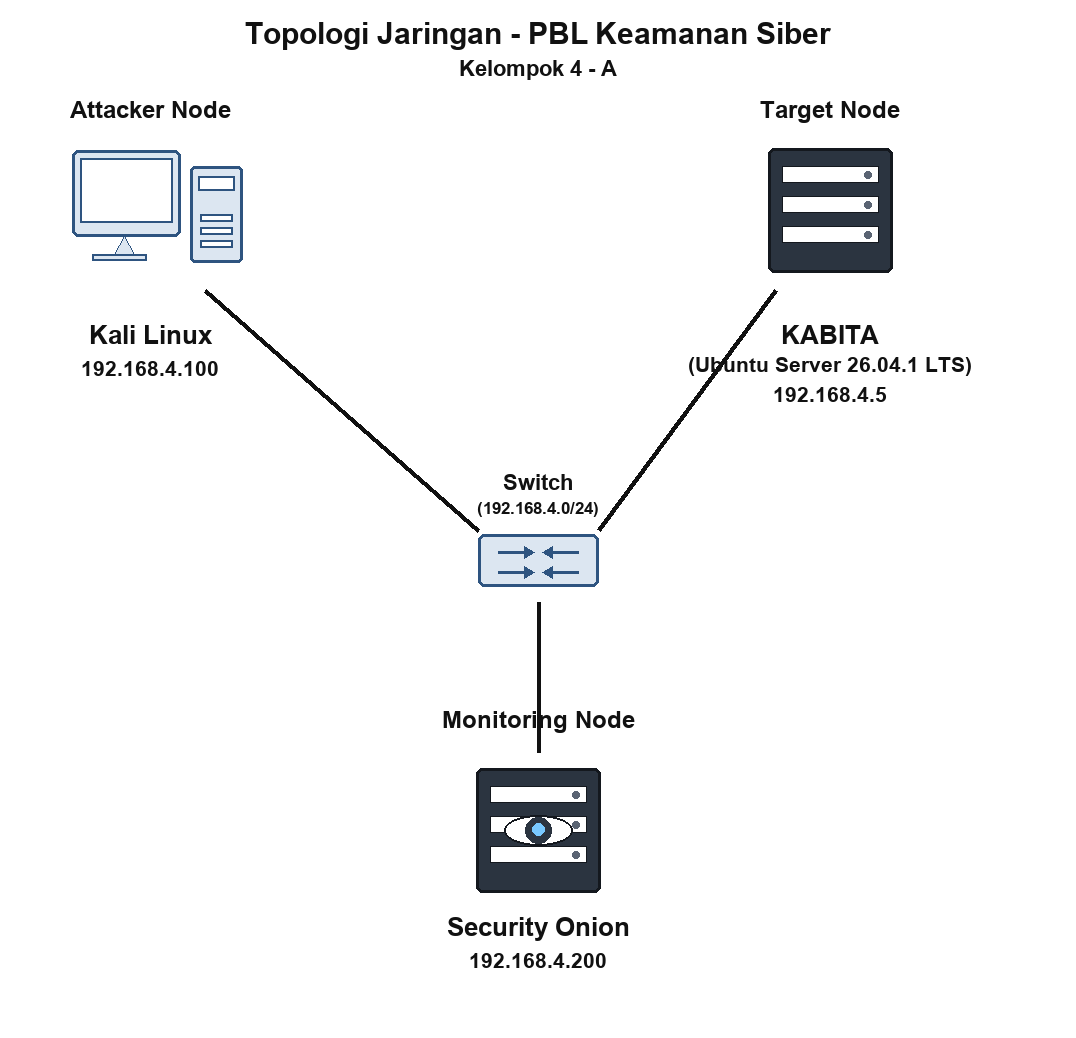
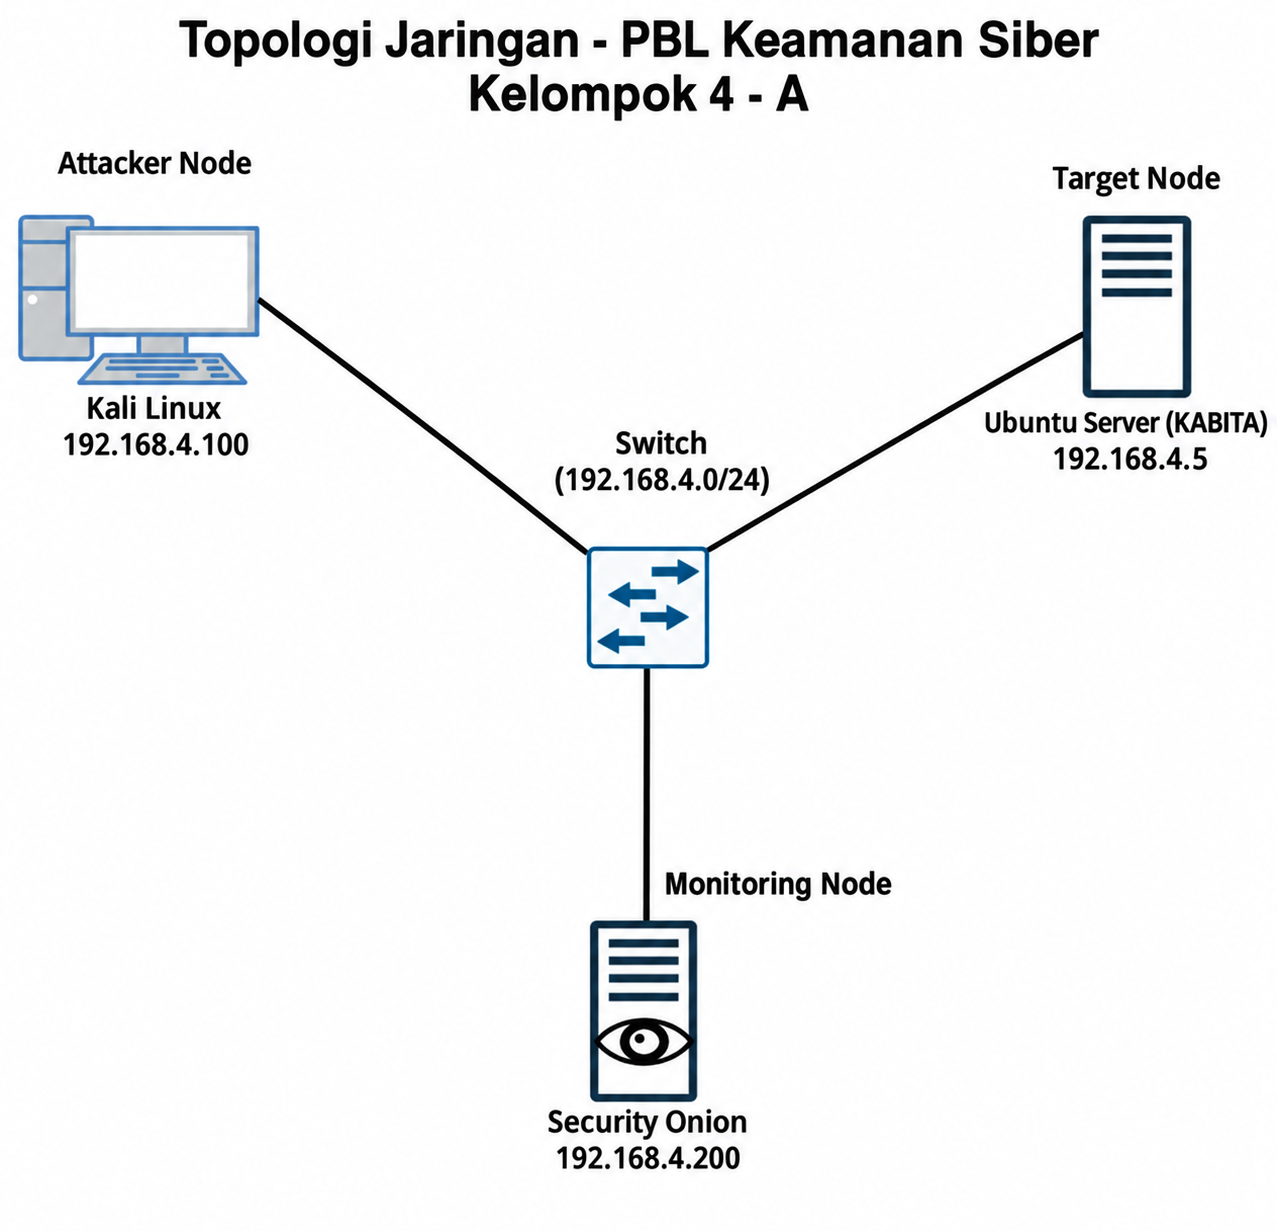
Update documentation and evidence files for KABITA project
- Revised IP plan documentation to reflect changes in monitoring node configuration.
- Removed outdated topology image and updated current topology image.
- Added evidence files for SSH login attempts, fail2ban configurations, and service statuses.
- Created hardening checklist and tech stack declaration for the KABITA project.
- Documented attack plan scenarios for phase 2 of the project.

diff --git a/docs/design/ip_plan.md b/docs/design/ip_plan.md
@@ -7,57 +7,3 @@ Subnet lab: **192.168.4.0/24** (Internal Network `pbl-kel4`, tanpa DHCP).
 | Attacker | `PBL-K4-02-Attacker-Kali` | 192.168.4.100/24 | — | NAT (dhcp) |
 | Target | `PBL-K4-01-Target-Ubuntu` | 192.168.4.5/24 | — | NAT 10.0.3.15 + forward 2222→22 |
 | Monitoring | `PBL-K4-03-Monitoring-Onion` | 192.168.4.200/24 | — | Host-only 192.168.56.1 |
-
-## Port yang dipakai Target Node
-
-| Port | Layanan | Akses |
-|---|---|---|
-| 22/tcp | SSH (admin) | semua (lab + NAT) |
-| 80/tcp | dashboard & API KABITA (Nuxt/Nitro) | 192.168.4.0/24 |
-| 5432/tcp | PostgreSQL | hanya `127.0.0.1` |
-
-## Konfigurasi per node
-
-**Kali** — IP lab ditambahkan lewat NetworkManager, bukan `ip addr add` (kalau lewat `ip addr`,
-ARP tidak dijawab dan host lain gagal ping):
-
-```bash
-sudo nmcli con add type ethernet ifname eth0 con-name pbl-lab ip4 192.168.4.100/24
-sudo nmcli con up pbl-lab
-```
-
-**Kali (ulangi setelah reboot)** — profil `pbl-lab` dibuat sekali dan tersimpan, tetapi harus
-diaktifkan kalau IP hilang:
-
-```bash
-sudo nmcli con up pbl-lab          # profil sudah ada
-# kalau belum ada:
-sudo nmcli con add type ethernet ifname eth0 con-name pbl-lab ipv4.method manual \
-  ipv4.addresses 192.168.4.100/24
-```
-
-**Target** — netplan statis, permanen:
-
-```yaml
-# /etc/netplan/60-pbl-lab.yaml
-network:
-  version: 2
-  ethernets:
-    enp0s3:
-      dhcp4: false
-      addresses: [192.168.4.5/24]
-      optional: true
-```
-
-**Onion** — sensor pasif (`promisc on arp off`); agar bisa di-ping, ARP diaktifkan:
-
-```bash
-sudo ip link set eth0 promisc on arp on
-sudo ip addr add 192.168.4.200/24 dev eth0
-```
-
-## Catatan revisi Minggu 9
-
-Target Node semula direncanakan Metasploitable2, diganti **Ubuntu Server 26.04.1 LTS** agar
-replika menyerupai backend IoT nyata (Nuxt + PostgreSQL) dan kontrol hardening bisa dibuktikan.
-Subnet dan IP **tidak berubah** dari Minggu 4.

diff --git a/docs/blueteam/evidence/hardening_checklist.md b/docs/blueteam/evidence/hardening_checklist.md
@@ -1,0 +1,15 @@
+# Hardening Checklist — Target Node (KABITA Replica)
+Kelompok 4 — diperbarui 2026-10-23
+
+| # | Kategori | Kontrol | Status | Bukti |
+|---|---|---|---|---|
+| A.1 | Access & Authentication | SSH key-based auth, `PermitRootLogin no`, `PasswordAuthentication no` | Selesai | `evidence/a1-sshd_config-after.txt`, `evidence/a1-login-password-rejected.txt` |
+| A.2 | Access & Authentication | Port SSH custom (2222) + fail2ban rate-limit | Selesai | `evidence/a2-fail2ban-status.txt` |
+| B.1 | Service & Attack Surface | UFW whitelist port 2222/80/443/1883, default deny — 1883 untuk MQTT broker, sengaja dibuka ke LAN tapi wajib auth (bukan anonymous) | Selesai | `evidence/b1-ufw-status.txt` (perbarui — sekarang termasuk 1883) |
+| B.2 | Service & Attack Surface | Nonaktifkan service tak terpakai (ModemManager) + unattended-upgrades aktif | Selesai | `evidence/b2-services-after.txt`, `evidence/b2-unattended-upgrades.txt` |
+| B.3 | Service & Attack Surface | PostgreSQL `listen_addresses=localhost`, akun default bersih | Selesai | `evidence/b3-ss-tlnp.txt`, `evidence/b3-pg-roles.txt` |
+| C.1 | Data & Application | Kredensial DB via `.env` (mode 600), tidak hardcode | Selesai | `evidence/c1-env-permissions.txt` |
+| C.2 | Data & Application | Validasi input (`tag_rfid`, `berat_kg`, `:id`) | Selesai | `evidence/c2-sqli-probe-400.txt` |
+| C.3 | Data & Application | Least-privilege DB user + logging query mencurigakan | Selesai | `evidence/b3-pg-roles.txt`, `evidence/c3-log_statement.txt`, `evidence/c3-log-sample.txt` |
+
+> **Catatan:** MQTT (1883/tcp) terekspos ke jaringan lab secara sengaja — alat/simulator perlu publish dari luar. Beda dari PostgreSQL (5432, localhost) dan API (8080, loopback) yang tertutup total. Mitigasinya: `allow_anonymous false` + `password_file`, bukan isolasi jaringan.

diff --git a/docs/redteam/attack_plan.md b/docs/redteam/attack_plan.md
@@ -1,0 +1,9 @@
+# Attack Plan Fase 2 — KABITA (Kelompok 4)
+
+| Kategori | Skenario | Tools | Target di Replika |
+|---|---|---|---|
+| Reconnaissance | Port/service scan + OS fingerprinting | `nmap -sV -O -p- 192.168.4.5` | Seluruh port terbuka Target Node |
+| Exploitation / Akses | Brute-force login SSH (port 2222) | Hydra + wordlist | Layanan SSH Target Node |
+| Web/API/Protokol IoT | Uji SQL injection pada parameter `id` di `GET /api/v1/kambing/:id/riwayat` | sqlmap / uji manual | Endpoint API Golang |
+| Web/API/Protokol IoT | Publish MQTT tanpa kredensial ke broker (harus ditolak) | `mosquitto_pub` (tanpa -u/-P) | Mosquitto broker :1883 |
+| Web/API/Protokol IoT | Publish MQTT dengan kredensial bocor — payload palsu masuk `bobot_log` | `mosquitto_pub -u kabita_device -P <bocor>` | Mosquitto broker → tabel `bobot_log` |

diff --git a/docs/presentation-minggu9/tech_stack_declaration.md b/docs/presentation-minggu9/tech_stack_declaration.md
@@ -1,0 +1,9 @@
+# Deklarasi Tech Stack — KABITA (Kelompok 4)
+
+| Komponen | Proyek IoT Asli (KABITA) | Direplikasi sebagai (Target Node) |
+|---|---|---|
+| Sistem Operasi backend | — | Ubuntu 26.04 LTS |
+| Database | PostgreSQL | PostgreSQL 16 (apt, listen hanya localhost) |
+| Backend API | Golang | Golang (REST API, port 8080 internal, proxied via Nginx) |
+| Protokol komunikasi sensor | MQTT | MQTT (`kabita/readings`, QoS 1, auth user/password) + HTTP REST `POST /api/v1/readings` sebagai fallback — keduanya lewat satu fungsi validasi `processReading` |
+| Dashboard/monitoring | Vue/React | Build statis Vue/React, disajikan via Nginx |
